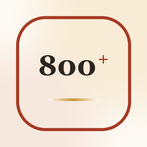
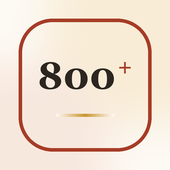
האייקון גדול יותר · הגרסה העגולה נמדדת מול אזור הבטיחות · v99
הטיפוגרפיה תופסת עכשיו 72% מרוחב הטבעת במקום 62%.

ובגרסה ה-maskable: הרוחב נגזר מהריבוע המוקטן, וזה היה שמרני מדי.
המגבלה האמיתית שם היא מעגל הבטיחות, והטקסט יושב על קו האמצע —
בדיוק במקום שבו המעגל רחב ביותר. לכן האייקון של אנדרואיד יצא קטן
בלי סיבה. עכשיו הוא נמדד מול המעגל, ובאותו גודל כמו הריבועי.

diff --git a/index.html b/index.html
@@ -1278,14 +1278,14 @@
 
 <div class="toast" id="toast" role="status" aria-live="polite"></div>
 
-<script src="supabase.min.js?v=98"></script>
-<script src="config.js?v=98"></script>
-<script src="store.js?v=98"></script>
-<script src="leveltest-he.js?v=98"></script>
-  <script src="leveltest.js?v=98"></script>
-<script src="enrank.js?v=98"></script>
-<script src="data.js?v=98"></script>
-<script src="data-en.js?v=98"></script>
-<script src="app.js?v=98"></script>
+<script src="supabase.min.js?v=99"></script>
+<script src="config.js?v=99"></script>
+<script src="store.js?v=99"></script>
+<script src="leveltest-he.js?v=99"></script>
+  <script src="leveltest.js?v=99"></script>
+<script src="enrank.js?v=99"></script>
+<script src="data.js?v=99"></script>
+<script src="data-en.js?v=99"></script>
+<script src="app.js?v=99"></script>
 </body>
 </html>

diff --git a/sw.js b/sw.js
@@ -2,7 +2,7 @@
    ONE place to bump on every deploy: REV. It names the cache *and* the asset query strings,
    so the URLs precached here are byte-for-byte the URLs index.html requests. When those drift
    apart the app silently keeps serving an old build — which is exactly what used to happen. */
-const REV = '98';
+const REV = '99';
 const V = 'hw-v' + REV;
 /* App DATA must not live in a versioned cache. The personalised reminder text was written into
    hw-v<REV>, so the next deploy deleted it along with the assets — and it was never rewritten,
